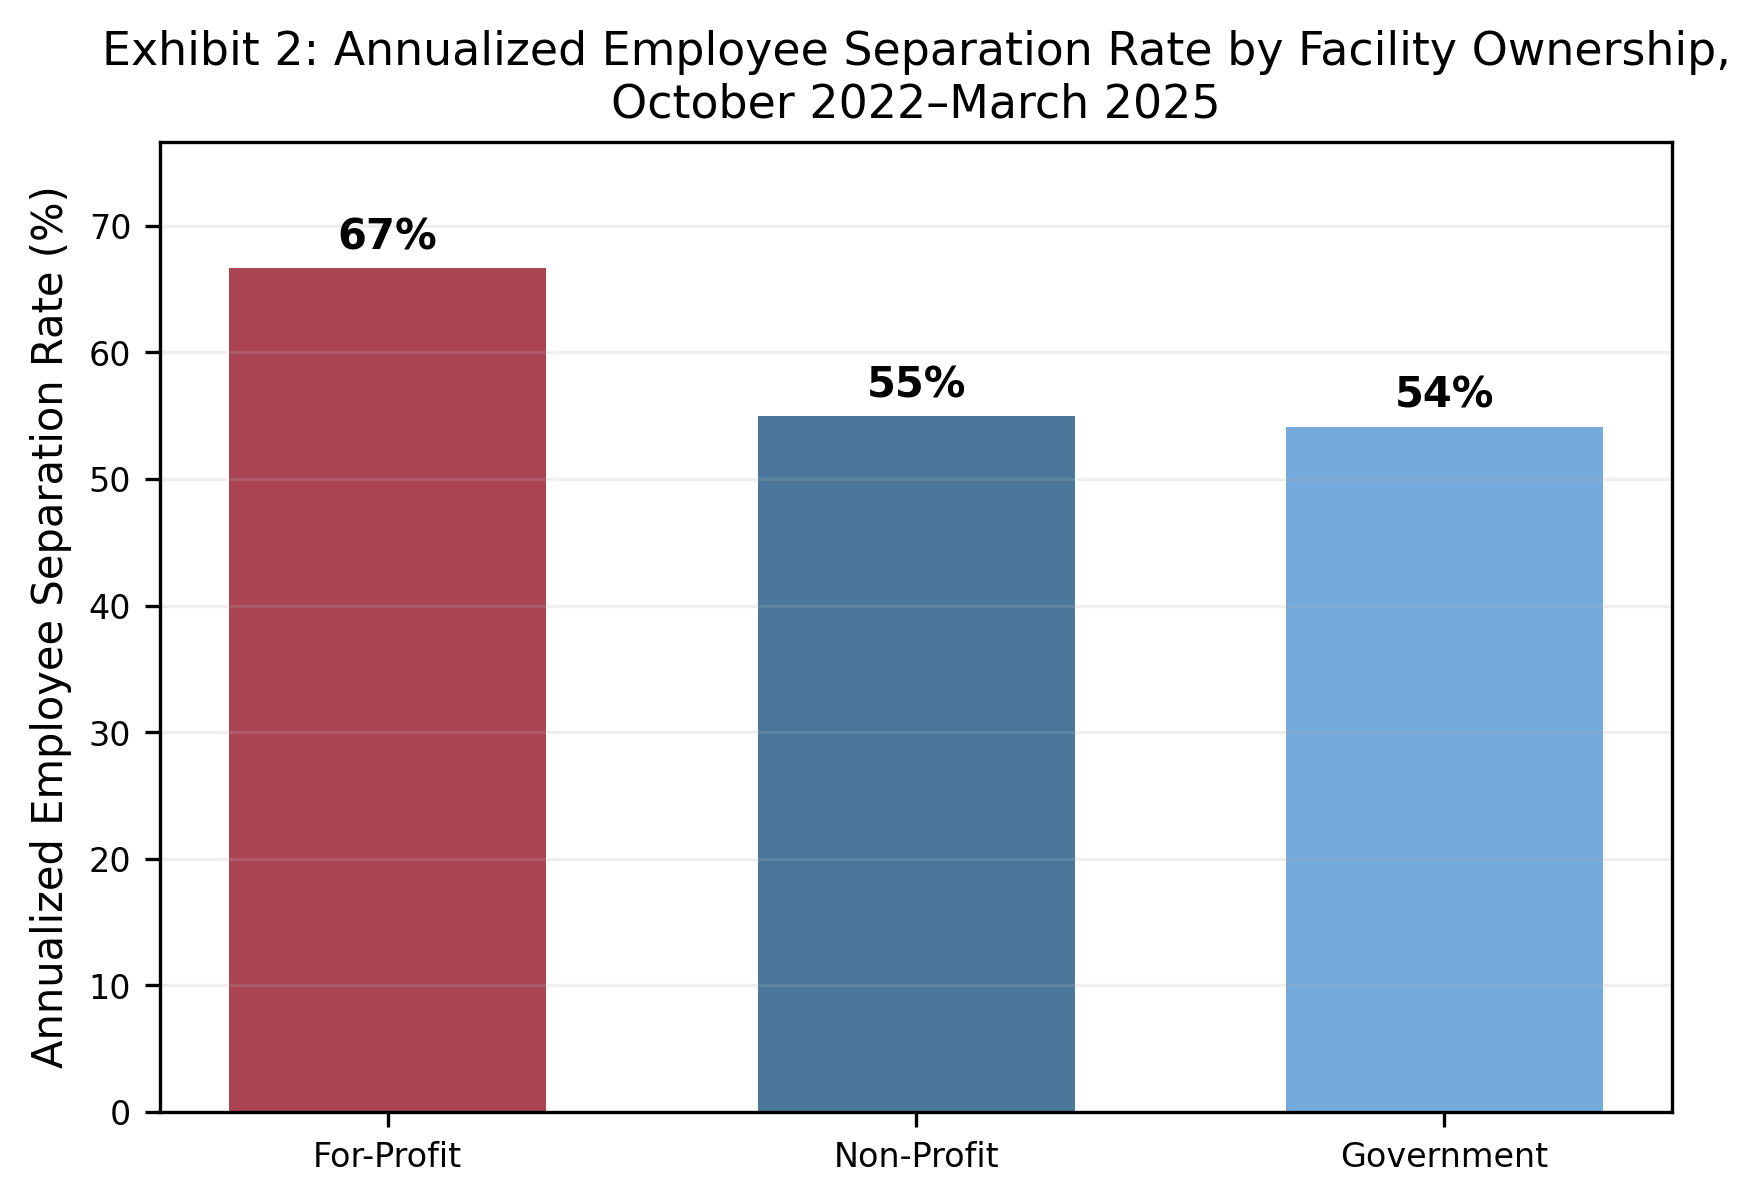
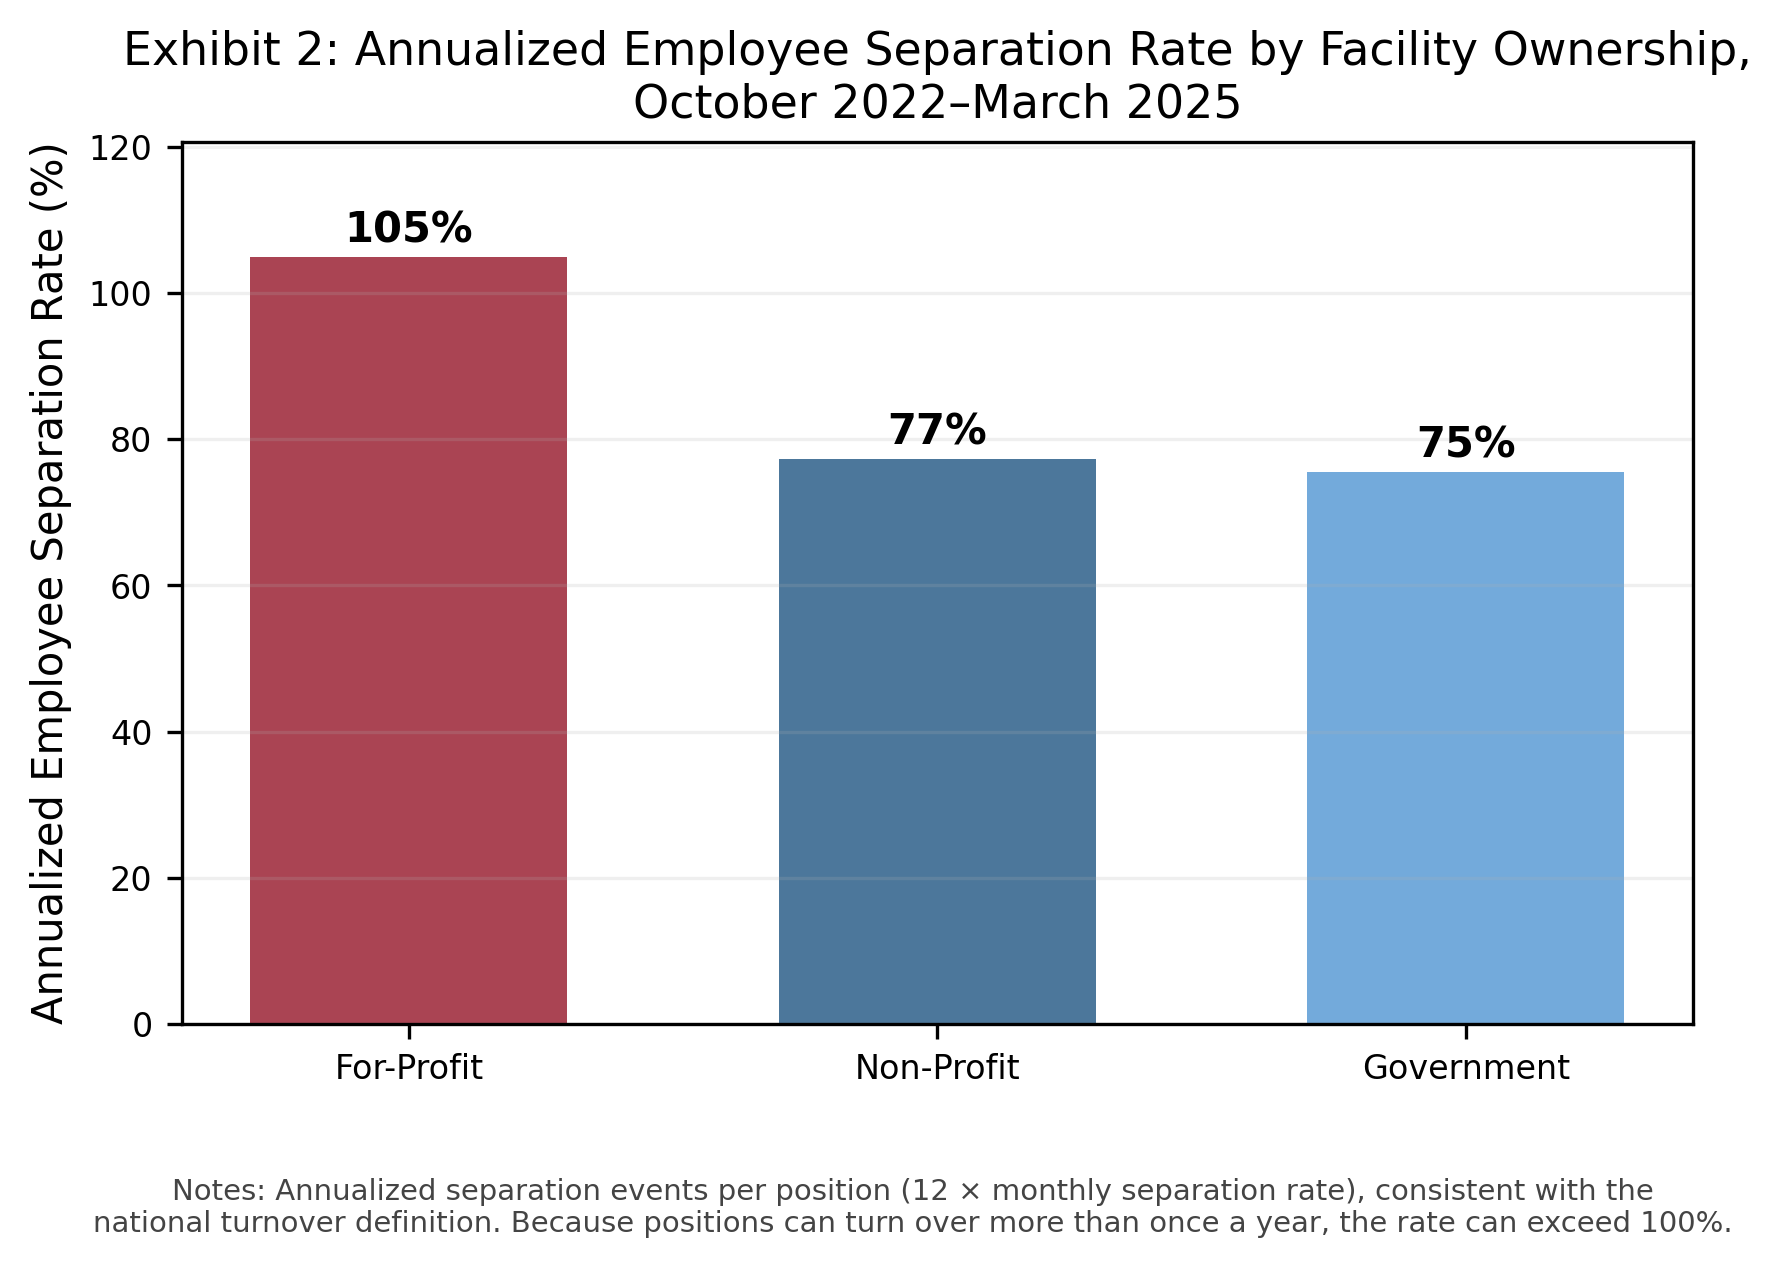
Regenerate exhibits for seasonal-naive model and flow/stock annualization
Exhibit 2 annualizes on the flow/stock basis (105/77/75%); Exhibits 3-4 use the
seasonal-naive forecasts; West Virginia excluded from Exhibit 4 (non-recurring
June 2024 spike) with an explanatory footnote; forecast CSV lazy-loaded per
function so importing for Exhibit 2 no longer requires forecasts to exist.

Changed region(s): [[0.0, 0.0, 0.9688, 0.9834]]

diff --git a/figures/generate_exhibits.py b/figures/generate_exhibits.py
@@ -36,8 +36,6 @@ hist = emp.groupby(["state", "ownership", "role", "month_end"]).agg(
 ).reset_index()
 hist["rate"] = hist["seps"] / hist["active"]
 
-bayes = pd.read_csv(OUTPUT_DIR / "bayesian_forecast_rates.csv", parse_dates=["ds"])
-
 TRAIN_END = "2025-03-01"
 VAL_END = "2025-06-01"
 
@@ -57,7 +55,9 @@ def exhibit2_ownership():
     colors = {"For-Profit": C_FP, "Non-Profit": C_NP, "Government": C_GOV}
 
     fig, ax = plt.subplots(figsize=(6.5, 4.2))
-    ann = 1 - (1 - own.values) ** 12  # annualize
+    # Annualize on the flow/stock basis (12 x monthly rate), matching the national
+    # turnover figure. This is a separation-event rate and can exceed 100%.
+    ann = own.values * 12
     bars = ax.bar(order, ann * 100, color=[colors[o] for o in order],
                   alpha=0.85, width=0.6)
     # Value labels on bars
@@ -68,6 +68,11 @@ def exhibit2_ownership():
     ax.set_title("Exhibit 2: Annualized Employee Separation Rate by Facility Ownership,\nOctober 2022–March 2025")
     ax.set_ylim(0, max(ann) * 100 * 1.15)
     ax.grid(True, alpha=0.2, axis="y")
+    fig.text(0.5, 0.01,
+             "Notes: Annualized separation events per position (12 × monthly separation rate), consistent with the\n"
+             "national turnover definition. Because positions can turn over more than once a year, the rate can exceed 100%.",
+             ha="center", va="bottom", fontsize=7, color="#444444")
+    fig.subplots_adjust(bottom=0.18)
     fig.savefig(FIG_DIR / "exhibit2_ownership.png")
     plt.close()
     print("  exhibit2_ownership.png (bar chart)")
@@ -79,15 +84,16 @@ def exhibit3_national_forecast():
     nat_hist = hist[(hist["month_end"] >= DISPLAY_START) & (hist["month_end"] <= VAL_END)].groupby("month_end").apply(
         lambda g: g["seps"].sum() / g["active"].sum(), include_groups=False
     ).reset_index(name="rate")
-    nat_fcst = bayes[(bayes["unique_id"] == "National/total/total") & (bayes["ds"] <= VAL_END)]
+    fcst = pd.read_csv(OUTPUT_DIR / "seasonal_naive_forecast_rates.csv", parse_dates=["ds"])
+    nat_fcst = fcst[(fcst["unique_id"] == "National/total/total") & (fcst["ds"] <= VAL_END)]
 
     fig, ax = plt.subplots(figsize=(8, 4))
     ax.plot(nat_hist["month_end"], nat_hist["rate"] * 100, "o-", markersize=4,
             color=C_OBS, linewidth=1.3, label="Observed")
-    ax.plot(nat_fcst["ds"], nat_fcst["BayesHier"] * 100, "D-", markersize=6,
+    ax.plot(nat_fcst["ds"], nat_fcst["forecast"] * 100, "D-", markersize=6,
             color=C_FCST, linewidth=1.6, label="Forecast")
-    ax.fill_between(nat_fcst["ds"], nat_fcst["BayesHier-lo-80"] * 100,
-                    nat_fcst["BayesHier-hi-80"] * 100, alpha=0.2, color=C_FCST,
+    ax.fill_between(nat_fcst["ds"], nat_fcst["forecast_lo80"] * 100,
+                    nat_fcst["forecast_hi80"] * 100, alpha=0.2, color=C_FCST,
                     label="80% prediction interval")
     ax.axvline(pd.Timestamp(TRAIN_END), color="gray", linestyle="--", alpha=0.6,
                linewidth=0.9, label="Training cutoff")
@@ -105,10 +111,11 @@ def exhibit3_national_forecast():
 def exhibit4_state_forecast():
     """Scatter: forecasted separation rate vs workforce size, by state."""
     # Get forecasted rate (avg over validation period) per state
-    state_fcst = bayes[bayes["unique_id"].str.match(r"^[A-Z]{2}/total/total$")].copy()
+    fcst = pd.read_csv(OUTPUT_DIR / "seasonal_naive_forecast_rates.csv", parse_dates=["ds"])
+    state_fcst = fcst[fcst["unique_id"].str.match(r"^[A-Z]{2}/total/total$")].copy()
     state_fcst["state"] = state_fcst["unique_id"].str[:2]
     state_fcst = state_fcst[state_fcst["ds"] <= VAL_END]
-    state_avg_rate = state_fcst.groupby("state")["BayesHier"].mean()
+    state_avg_rate = state_fcst.groupby("state")["forecast"].mean()
 
     # Get workforce size (last training month active count per state)
     train = pd.read_csv(DATA_DIR / "panel.csv", parse_dates=["month_end"])
@@ -117,6 +124,10 @@ def exhibit4_state_forecast():
 
     # Merge
     df = pd.DataFrame({"rate": state_avg_rate, "size": state_size}).dropna()
+    # Exclude WV for readability: forecast 18.6%, ~7,400 employees. Its forecast reflects
+    # a non-recurring June 2024 separation spike (33.9% that month, a facility-level event)
+    # projected forward by the seasonal method; WV's actual 2025 rate returned to ~7%.
+    df = df.drop(index="WV", errors="ignore")
     df["rate_pct"] = df["rate"] * 100
 
     # Quadrant thresholds
@@ -156,13 +167,19 @@ def exhibit4_state_forecast():
     ax.text(0.03, 0.03, "Low turnover\nSmall workforce", transform=ax.transAxes,
             ha="left", va="bottom", fontsize=7, color=C_OBS, fontstyle="italic", alpha=0.8)
 
-    ax.set_xlabel("Nursing Home Workforce Size (thousands of employees)")
+    ax.set_xlabel("Nursing Home Workforce Size (employees)")
     ax.set_ylabel("Forecasted Monthly Separation Rate (%)")
     ax.set_title("Exhibit 4: State Workforce Risk — Forecasted Turnover Rate vs Workforce Size")
     ax.set_xscale("log")
     ax.set_xticks([1, 2, 5, 10, 20, 50, 100])
     ax.get_xaxis().set_major_formatter(plt.FuncFormatter(lambda x, _: f"{x:.0f}K"))
     ax.grid(True, alpha=0.15)
+    fig.text(0.5, 0.005,
+             "Note: West Virginia (forecasted 18.6% separation rate, ~7,400 employees) is omitted for "
+             "readability. Its forecast reflects a non-recurring June 2024 spike (33.9% that month, a\n"
+             "facility-level event) that the seasonal method projects forward; WV's actual 2025 rate was ~7%.",
+             ha="center", va="bottom", fontsize=6.5, color="#444444")
+    fig.subplots_adjust(bottom=0.15)
     fig.savefig(FIG_DIR / "exhibit4_state_quadrant.png")
     plt.close()
     print("  exhibit4_state_quadrant.png")
